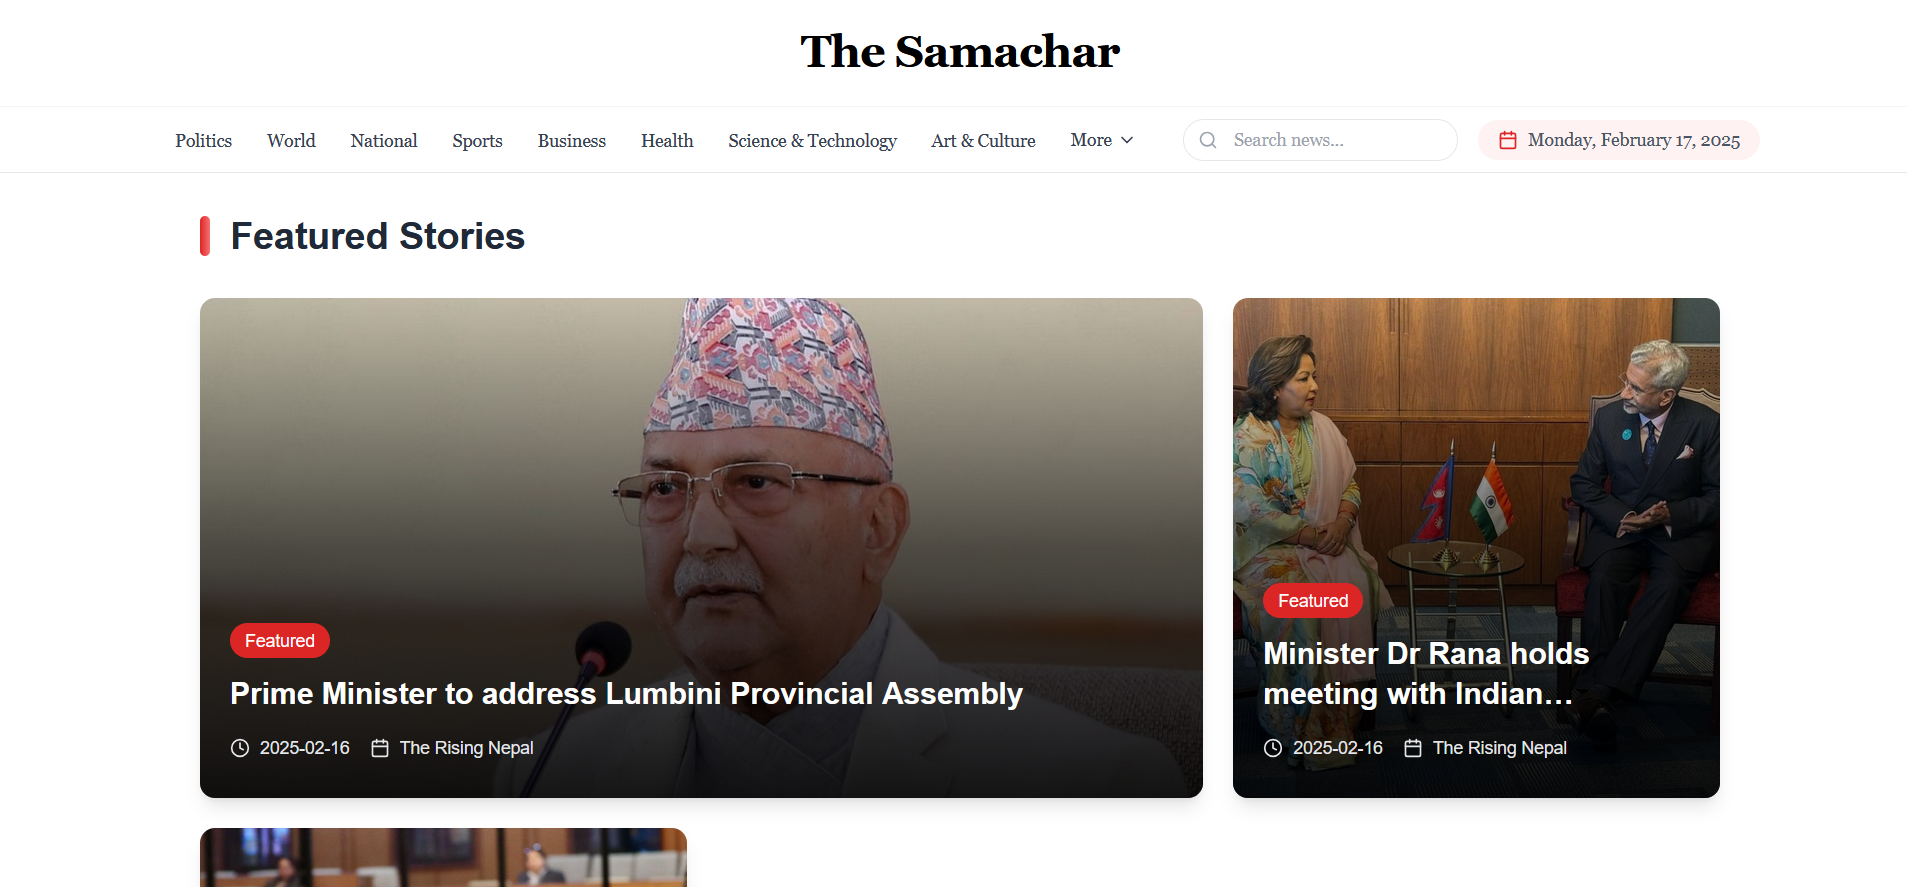
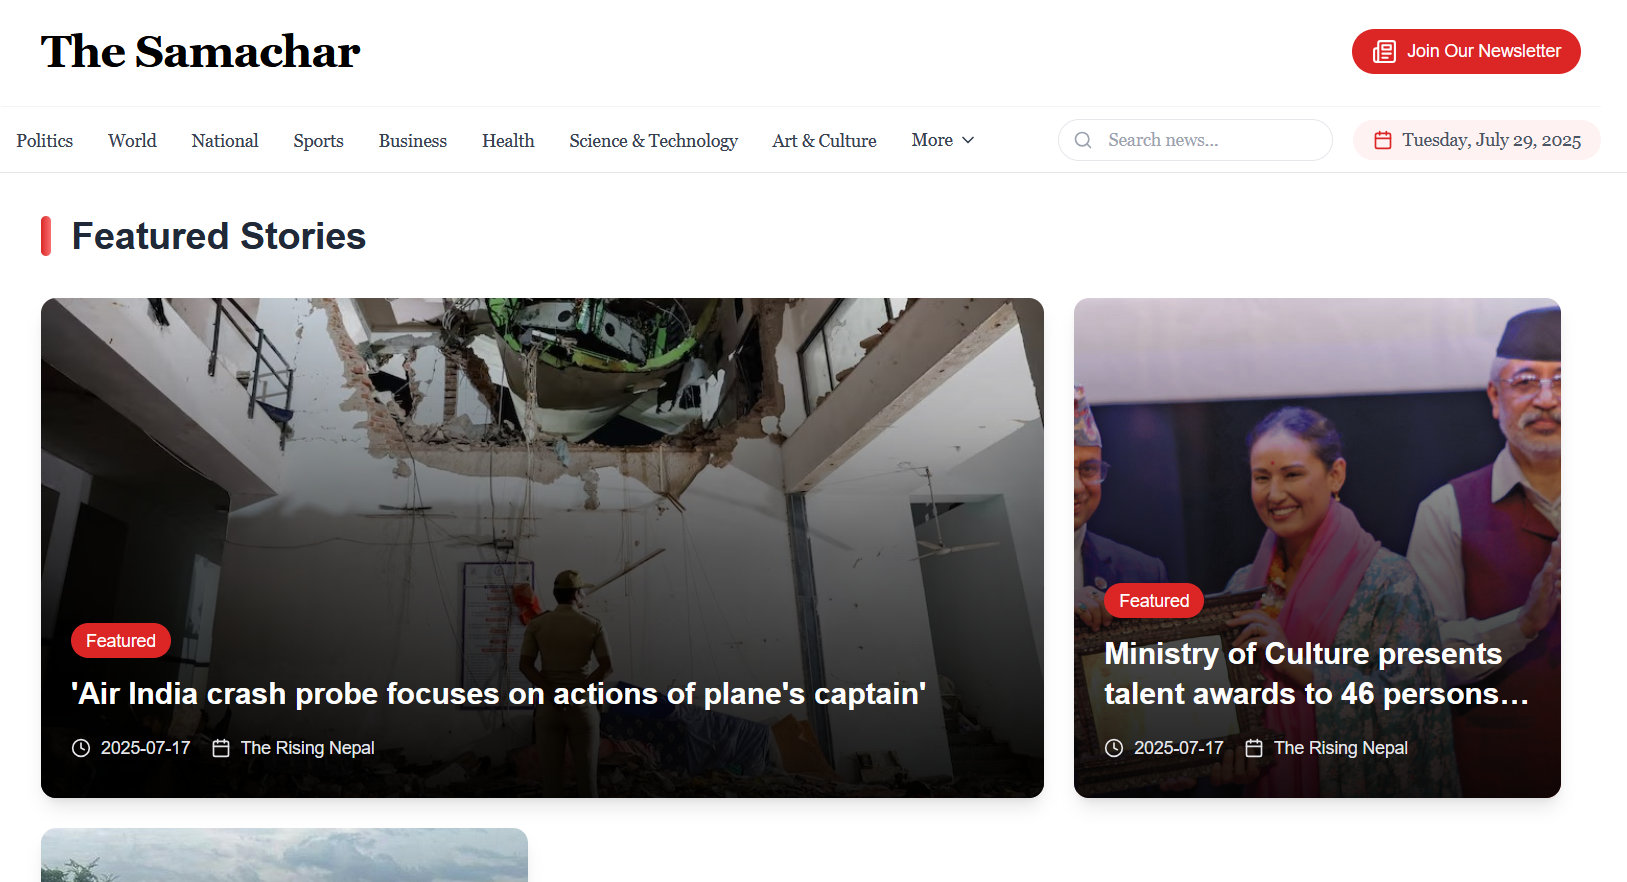
_ Added New project Inquizzit _  Improved the samachar Photo

diff --git a/src/app/page.js b/src/app/page.js
@@ -1,331 +1,3 @@
-// "use client";
-// import React, { useState, useCallback, memo } from "react";
-// import { FaGithub, FaLinkedin, FaFileAlt, FaSun, FaMoon } from "react-icons/fa";
-// import { AiOutlineExport } from "react-icons/ai";
-// import { HiMail } from "react-icons/hi";
-
-// const SocialLink = memo(({ href, icon: Icon, onClick, title }) => (
-//   <button
-//     onClick={
-//       onClick || (() => window.open(href, "_blank", "noopener,noreferrer"))
-//     }
-//     className="p-2 text-gray-400 hover:text-blue-400 transition-all duration-300 hover:scale-110 rounded-lg hover:bg-blue-500/10"
-//     title={title}
-//   >
-//     <Icon className="w-5 h-5" />
-//   </button>
-// ));
-
-// const SkillBadge = memo(({ icon, name }) => (
-//   <div className="flex items-center gap-2 px-3 py-1.5 bg-blue-500/10 border border-blue-500/20 rounded-full text-sm text-gray-300 hover:bg-blue-500/20 hover:border-blue-500/30 transition-all duration-300 hover:scale-105">
-//     <img src={icon} alt={name} className="w-4 h-4" loading="lazy" />
-//     <span>{name}</span>
-//   </div>
-// ));
-
-// const TechBadge = memo(({ tech }) => (
-//   <span className="px-3 py-1 bg-zinc-900 rounded-full text-xs text-gray-400 border border-zinc-800 group-hover:border-blue-500/20 transition-colors duration-300">
-//     {tech}
-//   </span>
-// ));
-
-// const Portfolio = () => {
-//   const [isDarkMode, setIsDarkMode] = useState(true);
-
-//   const about = {
-//     description:
-//       "20-year-old backend developer with a passion for building scalable systems and APIs. Currently diving deep into cloud technologies and microservices architecture, always looking to create efficient and robust solutions.",
-//   };
-
-//   const education = [
-//     {
-//       school: "Amrit Campus",
-//       role: "Bachelors in Computer Science And Information Technology (Bsc.CSIT)",
-//       period: " Nov 2023 - ",
-//       logo: "amrit.jpg",
-//       current: true,
-//     },
-//     {
-//       school: "Himalaya Secondary School",
-//       role: "Computer Engineering (From Grade 9 to 12 )",
-//       period: " Apr 2019 - Jun 2023",
-//       logo: "himalaya.png",
-//       current: false,
-//     },
-//   ];
-
-//   const skills = [
-//     { name: "JavaScript", icon: "/javascript.svg" },
-//     { name: "Node js", icon: "/nodejs.svg" },
-//     { name: "Express", icon: "/express.svg" },
-//     { name: "Puppeteer", icon: "/puppeteer.svg" },
-//     { name: "MongoDB", icon: "/mongodb.svg" },
-//     { name: "Vercel", icon: "/vercel.svg" },
-//     { name: "GitHub", icon: "/github.svg" },
-//     { name: "Postman", icon: "/postman.svg" },
-//   ];
-
-//   const projects = [
-//     {
-//       title: "Grill My Reddit",
-//       description:
-//         " 'Grill My Reddit' is an AI-powered Reddit roaster that humorously roasts users based on their recent Reddit comments and username. It fetches real-time user data using Reddit's API and crafts clever, personalized insults with the help of advanced AI. Just drop a Reddit username—and let the roasting begin!",
-//       isNew: true,
-//       image: "grillmyreddit.png",
-//       technologies: ["Node.js", "Express", "Reddit API", "Next", "LLM"],
-//       link: "https://grillmyreddit.vercel.app/",
-//     },
-//     {
-//       title: "The Samachar",
-//       description:
-//         "'The Samachar' is a news aggregator that uses custom-built scrapers with Puppeteer in Node.js to collect articles. It features AI-generated summaries, trending topics, and insights on how different sources cover the same news.",
-//       isNew: false,
-//       image: "thesamachar.png",
-//       technologies: ["Node.js", "Express", "Puppeteer", "Next", "MongoDb"],
-//       link: "https://thesamachar.vercel.app/",
-//     },
-//     {
-//       title: "Video Streaming Backend API",
-//       description:
-//         "A comprehensive API for a video streaming platform, offering features like user authentication, video uploads, playlists, comments, community posts, and subscriptions. Built with Node.js and Express, it utilizes MongoDB for seamless data management and RESTful API architecture for efficient interactions.",
-//       isNew: false,
-//       image: "theapi.png",
-//       technologies: ["Node.js", "JavaScript", "MongoDB", "Express", "JWT"],
-//       link: "https://github.com/Aayush-khadka/Video-Streaming-Backend",
-//     },
-//   ];
-//   const [buttonText, setButtonText] = useState("Copy email address");
-
-//   const handleCopyEmail = useCallback(() => {
-//     navigator.clipboard.writeText("Khadkaaayush90@gmail.com").then(() => {
-//       setButtonText("Copied!");
-//       setTimeout(() => setButtonText("Copy email address"), 2000);
-//     });
-//   }, []);
-
-//   const handleResumeClick = () => {
-//     window.open("/resume.pdf", "_blank");
-//   };
-
-//   const toggleTheme = () => {
-//     setIsDarkMode(!isDarkMode);
-//   };
-
-//   const themeClasses = isDarkMode
-//     ? "min-h-screen w-full bg-black text-gray-300"
-//     : "min-h-screen w-full bg-gray-50 text-gray-700";
-
-//   const cardClasses = isDarkMode
-//     ? "bg-zinc-950 border border-zinc-800 hover:border-blue-500/30 hover:shadow-lg hover:shadow-blue-500/10"
-//     : "bg-white border border-gray-200 hover:border-blue-500/30 hover:shadow-lg hover:shadow-blue-500/20";
-
-//   const textPrimary = isDarkMode ? "text-white" : "text-gray-900";
-//   const textSecondary = isDarkMode ? "text-gray-400" : "text-gray-600";
-//   const textMuted = isDarkMode ? "text-gray-500" : "text-gray-500";
-
-//   return (
-//     <div className={`${themeClasses} px-4 sm:px-6 transition-all duration-300`}>
-//       <div className="max-w-3xl mx-auto py-8 sm:py-12 md:py-20">
-//         {/* Header */}
-//         <div className="flex flex-col sm:flex-row items-center gap-6 mb-8 animate-fade-in">
-//           <div className="relative group">
-//             <img
-//               src="/img.jpg"
-//               alt="Profile"
-//               className="w-20 h-20 sm:w-16 sm:h-16 rounded-full ring-2 ring-blue-500/20 shadow-md shadow-blue-500/10 transition-all duration-300 group-hover:scale-105 group-hover:ring-blue-500/40"
-//               loading="lazy"
-//             />
-//           </div>
-//           <div className="text-center sm:text-left flex-1">
-//             <h1
-//               className={`${textPrimary} font-bold text-2xl tracking-tight hover:text-blue-400 transition-colors duration-300`}
-//             >
-//               Aayush Khadka
-//             </h1>
-//             <p className={`text-sm ${textSecondary} mt-1`}>Backend Developer</p>
-//           </div>
-//           <div className="flex gap-2">
-//             <SocialLink
-//               href="#"
-//               icon={FaFileAlt}
-//               onClick={handleResumeClick}
-//               title="Download Resume"
-//             />
-//             <SocialLink
-//               href="https://github.com/Aayush-khadka"
-//               icon={FaGithub}
-//               title="GitHub"
-//             />
-//             <SocialLink
-//               href="https://www.linkedin.com/in/aayush-khadka-0513931b0/"
-//               icon={FaLinkedin}
-//               title="LinkedIn"
-//             />
-//             <SocialLink
-//               href="#"
-//               icon={isDarkMode ? FaSun : FaMoon}
-//               onClick={toggleTheme}
-//               title={isDarkMode ? "Light Mode" : "Dark Mode"}
-//             />
-//           </div>
-//         </div>
-
-//         {/* About */}
-//         <section className="mb-12">
-//           <h2 className={`${textPrimary} mb-4 text-lg font-semibold`}>About</h2>
-//           <p className={`${textSecondary} leading-relaxed text-base`}>
-//             {about.description}
-//           </p>
-//         </section>
-
-//         {/* Education */}
-//         <section className="mb-12">
-//           <h2 className={`${textPrimary} mb-6 text-lg font-semibold`}>
-//             Education
-//           </h2>
-//           <div className="space-y-6 relative">
-//             <div className="absolute left-4 sm:left-6 top-0 w-px h-full bg-gradient-to-b from-blue-500 via-blue-500/50 to-transparent" />
-//             {education.map((edu, index) => (
-//               <div
-//                 key={index}
-//                 className="flex items-start gap-4 sm:gap-6 relative group hover:translate-x-1 transition-all duration-300"
-//               >
-//                 <div className="w-8 h-8 sm:w-12 sm:h-12 rounded-full bg-blue-500/10 border border-blue-500/20 flex items-center justify-center relative z-10 group-hover:scale-110 group-hover:border-blue-500/40 transition-all duration-300">
-//                   <img
-//                     src={edu.logo}
-//                     alt={edu.school}
-//                     className="w-6 h-6 sm:w-8 sm:h-8 object-cover rounded-full"
-//                     loading="lazy"
-//                   />
-//                 </div>
-//                 <div className="flex-1">
-//                   <div className="flex flex-col sm:flex-row sm:justify-between">
-//                     <div>
-//                       <h3
-//                         className={`${textPrimary} font-medium group-hover:text-blue-400 transition-colors duration-300`}
-//                       >
-//                         {edu.school}
-//                       </h3>
-//                       <p className={`${textSecondary} text-sm mt-1`}>
-//                         {edu.role}
-//                       </p>
-//                     </div>
-//                     <span
-//                       className={`${textMuted} text-sm mt-2 sm:mt-0 flex items-center gap-2`}
-//                     >
-//                       {edu.period}
-//                       {edu.current && (
-//                         <span className="inline-flex items-center gap-1 text-green-400 text-xs bg-green-500/10 px-2 py-0.5 rounded-full">
-//                           <span className="w-1.5 h-1.5 bg-green-400 rounded-full animate-pulse" />
-//                           Present
-//                         </span>
-//                       )}
-//                     </span>
-//                   </div>
-//                 </div>
-//               </div>
-//             ))}
-//           </div>
-//         </section>
-
-//         {/* Skills */}
-//         <section className="mb-12">
-//           <h2 className={`${textPrimary} mb-4 text-lg font-semibold`}>
-//             Skills
-//           </h2>
-//           <div className="flex flex-wrap gap-2 sm:gap-3">
-//             {skills.map((skill, index) => (
-//               <SkillBadge key={index} {...skill} />
-//             ))}
-//           </div>
-//         </section>
-
-//         {/* Projects */}
-//         <section className="pb-12">
-//           <h2 className={`text-3xl font-bold ${textPrimary} text-center mb-4`}>
-//             My Work
-//           </h2>
-//           <p className={`${textMuted} text-center mb-8`}>
-//             Collected across different projects
-//           </p>
-//           <div className="grid grid-cols-1 lg:grid-cols-2 gap-6">
-//             {projects.map((project, index) => (
-//               <div
-//                 key={index}
-//                 className={`group ${cardClasses} rounded-xl overflow-hidden transition-all duration-300 flex flex-col`}
-//               >
-//                 <div
-//                   className="w-full h-48 sm:h-64 overflow-hidden relative cursor-pointer"
-//                   onClick={() => window.open(project.link, "_blank")}
-//                 >
-//                   {project.image && (
-//                     <img
-//                       src={project.image}
-//                       alt={project.title}
-//                       className="w-full h-full object-cover group-hover:scale-105 transition-transform duration-500"
-//                       loading="lazy"
-//                     />
-//                   )}
-//                   {project.isNew && (
-//                     <span className="absolute top-3 right-3 px-2 py-1 bg-blue-500 text-white text-xs rounded-full font-medium">
-//                       New
-//                     </span>
-//                   )}
-//                   <div className="absolute inset-0 bg-black/0 group-hover:bg-black/10 transition-all duration-300 flex items-center justify-center">
-//                     <div className="opacity-0 group-hover:opacity-100 transition-opacity duration-300 bg-blue-500/90 text-white px-3 py-1 rounded-full text-sm font-medium">
-//                       View Project
-//                     </div>
-//                   </div>
-//                 </div>
-//                 <div className="p-6 flex-1 flex flex-col">
-//                   <div className="flex justify-between items-center mb-4">
-//                     <h3
-//                       className={`text-lg font-semibold ${textPrimary} group-hover:text-blue-400 flex items-center gap-2 transition-colors duration-300`}
-//                     >
-//                       {project.title}
-//                       <button
-//                         onClick={() => window.open(project.link, "_blank")}
-//                         className={`${textSecondary} hover:text-blue-400 hover:scale-110 transition-all duration-300 p-1 rounded`}
-//                       >
-//                         <AiOutlineExport className="w-4 h-4" />
-//                       </button>
-//                     </h3>
-//                   </div>
-//                   <p
-//                     className={`${textSecondary} text-sm mb-6 leading-relaxed`}
-//                   >
-//                     {project.description}
-//                   </p>
-//                   <div className="flex flex-wrap gap-2 mt-auto">
-//                     {project.technologies.map((tech, techIndex) => (
-//                       <TechBadge key={techIndex} tech={tech} />
-//                     ))}
-//                   </div>
-//                 </div>
-//               </div>
-//             ))}
-//           </div>
-//         </section>
-
-//         {/* Contact Section */}
-//         <section className="mt-12 text-center">
-//           <div className="flex flex-col sm:flex-row items-center justify-center gap-4">
-//             <p className={`text-sm ${textSecondary}`}>Want to work together?</p>
-//             <button
-//               onClick={handleCopyEmail}
-//               className="text-sm cursor-pointer px-3 py-1.5 rounded-full bg-blue-500/10 hover:bg-blue-500/20 border border-blue-500/20 transition-all duration-300 hover:scale-105"
-//             >
-//               {buttonText}
-//             </button>
-//           </div>
-//         </section>
-//       </div>
-//     </div>
-//   );
-// };
-
-// export default Portfolio;
-
 "use client";
 import React, { useState, useCallback, memo } from "react";
 import { FaGithub, FaLinkedin, FaFileAlt, FaSun, FaMoon } from "react-icons/fa";
@@ -412,10 +84,19 @@ const Portfolio = () => {
 
   const projects = [
     {
+      title: "Inquizzit",
+      description:
+        "'Inquizzit' is a real-time quiz app where users can instantly generate questions based on any topic. Hosts can create rooms, invite players, and edit questions on the go. Players earn points for correct answers, with the top 3 winners announced. Built with Node.js, Socket.IO, and Groq API, it offers a smooth and interactive quiz experience.",
+      isNew: true,
+      image: "Inquizzit.png",
+      technologies: ["Node.js", "Express", "Socket.io", "LLM"],
+      link: "https://inquizzit.vercel.app/",
+    },
+    {
       title: "Grill My Reddit",
       description:
         "'Grill My Reddit' is an AI-powered Reddit roaster that humorously roasts users based on their recent Reddit comments and username. It fetches real-time user data using Reddit's API and crafts clever, personalized insults with the help of advanced AI. Just drop a Reddit username—and let the roasting begin!",
-      isNew: true,
+      isNew: false,
       image: "grillmyreddit.png",
       technologies: ["Node.js", "Express", "Reddit API", "Next", "LLM"],
       link: "https://grillmyreddit.vercel.app/",
@@ -425,7 +106,7 @@ const Portfolio = () => {
       description:
         "'The Samachar' is a news aggregator that uses custom-built scrapers with Puppeteer in Node.js to collect articles. It features AI-generated summaries, trending topics, and insights on how different sources cover the same news.",
       isNew: false,
-      image: "thesamachar.png",
+      image: "thesamachar2.png",
       technologies: ["Node.js", "Express", "Puppeteer", "Next", "MongoDb"],
       link: "https://thesamachar.vercel.app/",
     },
